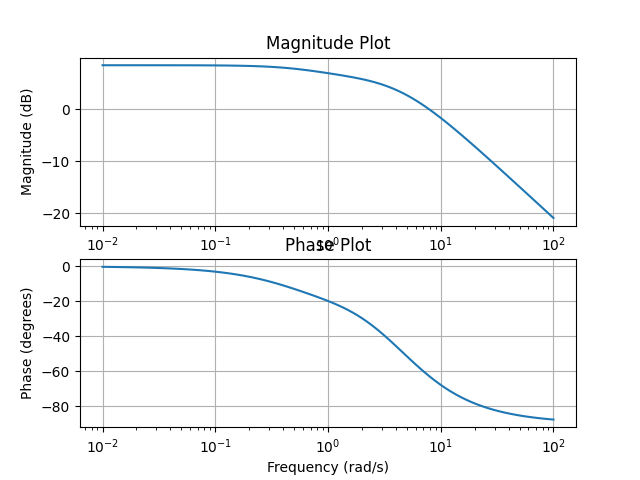
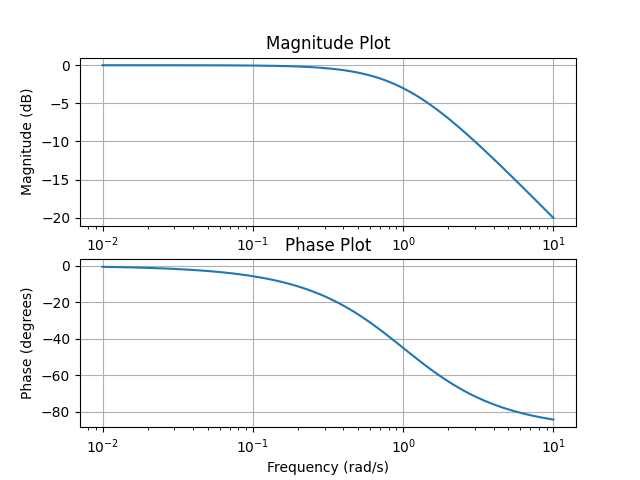
updated bode_GUI.py

diff --git a/RaspberryPi/GUI/bode_gui.py b/RaspberryPi/GUI/bode_gui.py
@@ -2,6 +2,7 @@ import tkinter as tk
 from tkinter import ttk
 import matplotlib.pyplot as plt
 from matplotlib.backends.backend_tkagg import FigureCanvasTkAgg
+from scipy import signal
 import control 
 from control import tf, root_locus, nyquist_plot, bode_plot
 
@@ -18,16 +19,37 @@ def draw_nyquist_plot(numerator, denominator):
     plt.grid(True)
     plt.show()
 
-def draw_bode_plot(numerator, denominator):
-    # Create the transfer function
-    system = tf(numerator, denominator)
+# def draw_bode_plot(numerator, denominator):
+#     # Create the transfer function
+#     system = tf(numerator, denominator)
 
-    # Plot the Bode plot
-    fig = plt.figure(figsize=(3.3, 8))  # Set size to 330x800 pixels
-    mag, phase, omega = bode_plot(system, Plot=False)  # Plot=False to suppress automatic plot display
-    plt.title('Bode Plot')
+#     # Plot the Bode plot
+#     fig = plt.figure(figsize=(3.3, 8))  # Set size to 330x800 pixels
+#     mag, phase, omega = bode_plot(system, Plot=False)  # Plot=False to suppress automatic plot display
+#     plt.title('Bode Plot')
     
-    return fig
+#     plt.show()
+
+def draw_bode_plot(numerator,denominator):
+    transfer_function = signal.TransferFunction(numerator, denominator)
+    w, mag, phase = signal.bode(transfer_function)
+
+    #plot in black background name axis and title for both plots
+    fig, ax = plt.subplots(2, 1)
+    ax[0].plot(w, mag)
+    ax[0].set_xscale('log')
+    ax[0].set_title('Magnitude Plot')
+    ax[0].set_ylabel('Magnitude (dB)')
+    ax[0].set_xlabel('Frequency (rad/s)')
+    ax[0].grid()
+
+    ax[1].plot(w, phase)
+    ax[1].set_xscale('log')
+    ax[1].set_title('Phase Plot')
+    ax[1].set_ylabel('Phase (degrees)')
+    ax[1].set_xlabel('Frequency (rad/s)')
+    ax[1].grid()
+    plt.show()
 
 def transfer_function_visual(num_coeffs, den_coeffs):
     num_len = len(num_coeffs)
@@ -93,7 +115,7 @@ class PlotApp(tk.Frame):
 
     def plot_root_locus(self):
         # Create the transfer function from coefficients
-        sys = control.TransferFunction(self.num_coeffs, self.den_coeffs)
+        sys = signal.TransferFunction(self.num_coeffs, self.den_coeffs)
 
         # Plot the root locus
         plt.figure(figsize=(3.3, 8))  # Set size to 330x800 pixels

diff --git a/Controls/main.py b/Controls/main.py
@@ -8,16 +8,7 @@ import os
 parent_dir = os.path.dirname(os.path.abspath(__file__))
 
 def save_bode_plot(numerator,denominator):
-    s = sp.symbols("s")
-    poly_numerator = sp.Poly(numerator, s)
-    numerator_coefficients = poly_numerator.all_coeffs()
-    numerator_coefficients = [float(coef) for coef in numerator_coefficients]
-
-    poly_denominator = sp.Poly(denominator, s)
-    denominator_coefficients = poly_denominator.all_coeffs()
-    denominator_coefficients = [float(coef) for coef in denominator_coefficients]
-
-    transfer_function = signal.TransferFunction(numerator_coefficients, denominator_coefficients)
+    transfer_function = signal.TransferFunction(numerator, denominator)
     w, mag, phase = signal.bode(transfer_function)
 
     #plot in black background name axis and title for both plots
@@ -38,11 +29,10 @@ def save_bode_plot(numerator,denominator):
     
     plt.savefig(os.path.join(parent_dir, "bode_plot.png"))
     plt.show()
-    return os.path.join(parent_dir, "bode_plot.png")
 
 
 
 if __name__ == "__main__":
-    num = "s + 1"
-    den = "s^5 + 2*s + 1"
+    num = [1,1]
+    den = [1,2,1]
     save_bode_plot(num, den)
